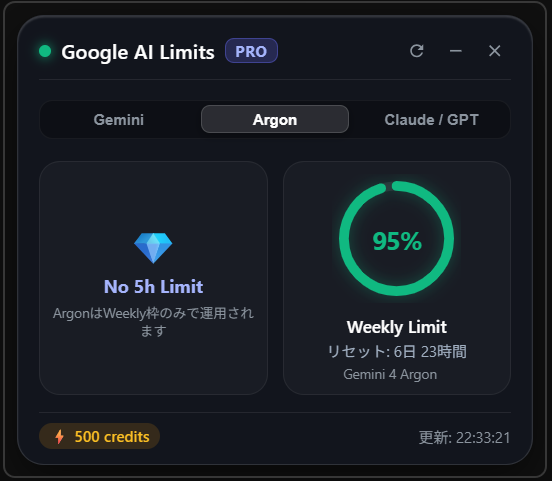
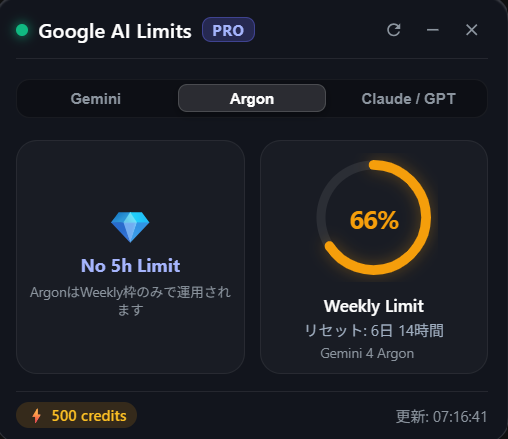
style: ウィンドウ外側の透明パディングを排除しジャストフィット化、READMEスクリーンショットを更新 (Closes #8)

diff --git a/src/styles.css b/src/styles.css
@@ -20,7 +20,7 @@
 
 body {
   margin: 0;
-  padding: 8px;
+  padding: 0;
   width: 100vw;
   height: 100vh;
   background: transparent;
@@ -37,7 +37,7 @@ body {
   -webkit-backdrop-filter: blur(20px);
   border: 1px solid var(--border-color);
   border-radius: 18px;
-  box-shadow: 0 10px 30px rgba(0, 0, 0, 0.55), inset 0 1px 1px rgba(255, 255, 255, 0.15);
+  box-shadow: inset 0 1px 1px rgba(255, 255, 255, 0.15);
   display: flex;
   flex-direction: column;
   justify-content: space-between;
